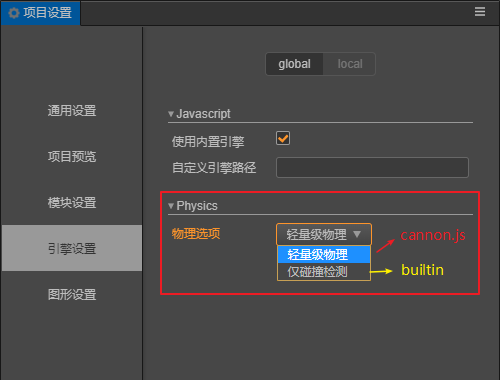
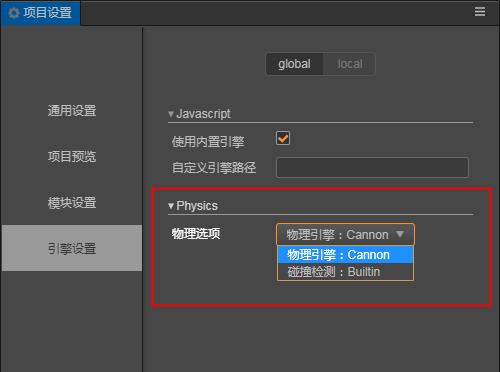
physics & particle change

diff --git a/zh/physics/physics-use/physics-group-mask.md b/zh/physics/physics-use/physics-group-mask.md
@@ -4,42 +4,44 @@
 
 ## 分组
 
-- 设置分组值，以下代码中的 group 的值十进制为 3，二进制为 011，分组可看作是 0 或 1 的
+- 设置分组值，以下代码中的 group 的值二进制为 011，分组可看作是存在于分组 0 和分组 1 中。
 
   `const group = 1 << 0 + 1 << 1;`
   `Collider.setGroup(group);`
 
-- 获取分组值，此示例中为 3。
+- 获取分组值，此示例中为 3，将 3 转为二进制为 011，可得分组为存在于分组 0 和分组 1 中。
 
-  `Collider.getGroup()`
+  `Collider.getGroup();`
 
-- 添加分组值，经过以下代码后，分组可以是 0 或 1 或 2 的。
+- 添加分组值，上述代码基础上，经过以下代码后，分组变为存在于分组 0 和分组 1 和分组 2 中。此时，分组值为 0111(二进制)，所以存在于分组 0、1、2 中。
 
   `const group = 1 << 2;`
   `Collider.addGroup(group);`
 
-- 减少分组值，经过以下代码后，分组可以是 0 或 1 的。
+- 减少分组值，上述代码基础上，经过以下代码后，分组变为存在于分组 0 和分组 1 中。此时，分组值为 0011(二进制)，所以存在于分组 0、1 中。
 
   `const group = 1 << 2;`
   `Collider.removeGroup(group);`
 
+- 上述方法接收参数均为十进制数字，为方便理解，此处用二进制解释，开发者熟悉后也可直接传入十进制数字进行分组操作。
+
 ## 掩码
 
-- 设置掩码值，以下代码中的 mask 的值十进制位为 3，二进制为 011，表示检测的分组为 0 或 1 的。
+- 设置掩码值，以下代码中的 mask 的值二进制为 011，表示检测的分组为分组 0 和分组 1 的。
 
   `const mask = 1 << 0 + 1 << 1;`
   `Collider.setMask(mask);`
 
-- 获取掩码值，此示例中为 3。
+- 获取掩码值，此示例中为 3，将 3 转为二进制为 011，可得要检测的为分组 0 和分组 1 的内容。
 
   `console.log(Collider.getMask());`
 
-- 添加掩码值，经过以下代码后，该掩码表示检测的分组为 0 或 1 或 2 的。
+- 添加掩码值，上述代码的基础上，经过以下代码后，该掩码表示检测的分组为分组 0 和分组 1 和分组 2 的。此时，掩码值为 0111(二进制)，所以检测分组 0、1、2 的内容。
 
   `const mask = 1 << 2;`
   `Collider.addMask(mask);`
 
-- 减少掩码值，经过以下代码后，该掩码表示检测的分组为 0 或 1 的。
+- 减少掩码值，上述代码的基础上，经过以下代码后，该掩码表示检测的分组为分组 0 或分组 1 的。此时，掩码值为 0011(二进制)，所以检测分组 0、1 的内容。
 
   `const mask = 1 << 2;`
   `Collider.removeMask(mask);`
@@ -58,6 +60,6 @@ TODO :
 ```
 -->
 
-## [**回到** 物理使用](./../physics-use.md)
+### [**回到** 物理使用](./../physics-use.md)
 
-## [**或者回到** 物理简介](./../physics.md)
+### [**或者回到** 物理简介](./../physics.md)

diff --git a/zh/physics/physics-item.md b/zh/physics/physics-item.md
@@ -1,6 +1,6 @@
 # 选择适合你项目的物理系统
 
-在编辑器中选择 "项目->项目设置->引擎设置" 中，您可以选择适合您项目需求的物理引擎进行开发(新项目默认为 “轻量级物理”，即 Cannon.js 物理引擎)。如下图所示：
+在编辑器中选择 "项目->项目设置->引擎设置" 中，您可以选择适合您项目需求的物理引擎进行开发(新项目默认为 Cannon.js 物理引擎)。如下图所示：
 
 ![物理引擎选项](img/PhysicsEngineOption.png)
 
@@ -24,6 +24,6 @@ Builtin 是仅有碰撞检测系统的物理模块，相对于其它的物理引
 
 [Cannon.js](https://github.com/cocos-creator/cannon.js) 是一个开源的物理引擎，它使用 js 语言开发并实现了比较全面的物理功能，如果您的项目需要更多复杂的物理功能，哪么您可以考虑使用 [Cannon.js](https://github.com/cocos-creator/cannon.js) ，再通过使用 Cocos Creator 3D 提供的 RigidBodyComponent 便可以快速上手。
 
-## [**继续下一篇**物理组件](physics-component.md)
+### [**继续下一篇**物理组件](physics-component.md)
 
-## [**或者回到**物理简介](physics.md)
+### [**或者回到**物理简介](physics.md)

diff --git a/zh/physics/physics.md b/zh/physics/physics.md
@@ -46,7 +46,7 @@ Cocos Creator 3D 目前支持轻量的碰撞检测系统 Builtin 和具有物理
 
 物理系统（PhysicsSystem）是一个模拟真实物理行为的系统，它负责对物理世界中的元素进行物理计算，比如计算各物体是否产生碰撞，以及物体的受力情况。所有元素计算完成后，还会更新到场景世界中，从而使游戏对象产生相应的物理行为。
 
-目前 Cocos Creator 3D 中物理计算所处的流程 ：  所有 Update 结束后 → 物理计算 → 开始绘画
+目前 Cocos Creator 3D 中物理计算所处的流程 ：  所有 Update 结束后 → 物理计算 → 开始渲染
 
 场景世界与物理世界，如图：
 ![场景世界与物理世界](img/SceneAndPhysics.png)
@@ -61,4 +61,4 @@ Cocos Creator 3D 的物理系统的更多内容将通过以下模块来进行更
 [**物理组件**](physics-component.md) | 介绍了一些列物理组件以及面板上的一系列属性
 [**物理使用**](physics-use.md) | 进一步介绍了物理组件的使用
 
-## [**继续下一篇**物理选项](physics-item.md)
+### [**继续下一篇**物理选项](physics-item.md)

diff --git a/zh/physics/physics-use/physics-event.md b/zh/physics/physics-use/physics-event.md
@@ -4,7 +4,7 @@ Cocos Creator 3D 的物理事件有触发事件和碰撞事件，分别由触发
 
 ## 触发器和碰撞器
 
-当碰撞时，触发器不会会产生物理行为，而碰撞器会产生物理行为，所以触发器是只进行碰撞检测的 Collider，而碰撞器是既进行碰撞检测，又进行物理模拟的 Collider。
+当碰撞时，触发器不会产生物理行为，而碰撞器会产生物理行为，所以触发器是只进行碰撞检测的 Collider，而碰撞器是既进行碰撞检测，又进行物理模拟的 Collider。
 
 两者的区别
 
@@ -66,6 +66,6 @@ private onCollision (event: ICollisionEvent) {
 - 触发事件由触发器生成，碰撞事件由碰撞器生成。
 - 触发事件可以由一个触发器和另一个触发器或者另一个碰撞器产生，而碰撞事件需要由两个碰撞器产生。
 
-## [**继续下一篇** 分组和掩码](physics-group-mask.md)
+### [**继续下一篇** 分组和掩码](physics-group-mask.md)
 
-## [**或者回到** 物理使用](./../physics-use.md)
+### [**或者回到** 物理使用](./../physics-use.md)

diff --git a/zh/particle-system/overview.md b/zh/particle-system/overview.md
@@ -23,3 +23,11 @@ Cocos Creator 3D粒子系统以模块来组织功能，包含了以下模块：
 [**ShapeModule**](emitter.md) | 用于控制粒子发射，包括发射方向与速度，支持预定义的发射方向包括方块、圆、锥体、球、半球
 [**AnimatorModule**](module.md) |  用于控制粒子发射后状态更新。已支持的功能有：大小、颜色、旋转、速度、加速度、限速、贴图动画
 [**ParticleSystemRenderer**](renderer.md) |  用于生成粒子渲染所需要的数据。包括vb、ib、渲染状态相关的控制
+
+添加一个粒子系统模块有两种方式：
+1. 像其他组件一样为节点添加粒子系统组件（不推荐）
+2. 使用编辑器添加粒子系统组件（推荐）
+   - 开发者可以通过右侧 Inspector 面板上点击“添加组件”添加粒子，如下图：
+   ![](particle-system/new_ParticleSystemComponent.png)
+   - 也可以通过左侧的层级管理器“右键->创建->特效->粒子系统”来添加一个粒子系统组件，如下图：
+   ![](particle-system/new_ParticleSystemComponent_node.png)

diff --git a/zh/particle-system/renderer.md b/zh/particle-system/renderer.md
@@ -6,7 +6,7 @@
 **属性** | **作用**
 ---|---
 **renderMode** | 设置一个粒子面片的生成方式，**billboard**粒子始终面向摄像机，**stretchedBillboard**粒子始终面向摄像机,但会根据相关参数进行拉伸，**horizontalBillboard**粒子面片始终与xz平面平行,**verticalBillboard**粒子面片始终与Y轴平行，但会朝向摄像机，**mesh**粒子为一个模型。
-**velocityScale** | 在**stretchedBillboard**模式下,对粒子在运动方向上按速度大小进行拉……
+**velocityScale** | 在**stretchedBillboard**模式下,对粒子在运动方向上按速度大小进行拉伸。
 **lengthScale** | 在**stretchedBillboard**模式下,对粒子在运动方向上按粒子大小进行拉伸。
 **mesh**|在renderMode为mesh时，指定要渲染的粒子的模型。
 **ParticleMaterial**|用于粒子渲染的材质，材质使用的effect只能是builtin-particle，不支持其它的effect。

diff --git a/zh/physics/physics-use.md b/zh/physics/physics-use.md
@@ -9,12 +9,12 @@
 [**物理事件**](physics-event.md) | 介绍了 Cocos Creator 3D 中的物理事件
 [**分组和掩码**](physics-group-mask.md) | 介绍了物理中分组和掩码的使用
 
-## [**阅读** Collider 组件](./physics-use/physics-collider.md)
+### [**阅读** Collider 组件](./physics-use/physics-collider.md)
 
-## [**阅读** Rigidbody 组件](./physics-use/physics-rigidbody.md)
+### [**阅读** Rigidbody 组件](./physics-use/physics-rigidbody.md)
 
-## [**阅读** 物理事件](./physics-use/physics-event.md)
+### [**阅读** 物理事件](./physics-use/physics-event.md)
 
-## [**阅读** 分组和掩码](./physics-use/physics-group-mask.md)
+### [**阅读** 分组和掩码](./physics-use/physics-group-mask.md)
 
-## [**或者回到** 物理简介](physics.md)
+### [**或者回到** 物理简介](physics.md)

diff --git a/zh/physics/physics-component.md b/zh/physics/physics-component.md
@@ -26,7 +26,7 @@ Cocos Creator 3D 目前为用户提供了碰撞器和刚体组件。
 
 ![球碰撞器组件](img/SphereColliderComponent.png)
 
-属性 | 解释（其它参考盒）
+属性 | 解释（其它参考盒碰撞器）
 ---|---
 **radius** | 球的半径
 
@@ -49,6 +49,6 @@ Cocos Creator 3D 目前为用户提供了碰撞器和刚体组件。
 
 **注： Builtin 中此组件暂时无效**。
 
-## [**继续下一篇**物理使用](physics-use.md)
+### [**继续下一篇**物理使用](physics-use.md)
 
-## [**或者回到**物理简介](physics.md)
+### [**或者回到**物理简介](physics.md)

diff --git a/zh/SUMMARY.md b/zh/SUMMARY.md
@@ -35,7 +35,7 @@
   - [加速度模块(ForceOvertimeModule)](particle-system/force-module.md)
   - [贴图动画模块(TextureAnimationModule)](particle-system/texture-animation-module.md)
   - [渲染模块(Renderer)](particle-system/renderer.md)
-  - [拖尾模块(TrailModule)](trail-module.md)
+  - [拖尾模块(TrailModule)](particle-system/trail-module.md)
 - [动画](engine/animation/index.md)
   - [动画组件](engine/animation/animation-component.md)
   - [动画剪辑](engine/animation/animation-clip.md)

diff --git a/zh/physics/physics-use/physics-collider.md b/zh/physics/physics-use/physics-collider.md
@@ -56,6 +56,6 @@ Collider 和 RigidBody 组件都是为了服务于物理元素，分别操控着
 - 在自身节点无 RigidBody 组件时，该属性返回为 null
 - attachedRigidbody 是一个只能获取并且只读的属性
 
-## [**继续下一篇** Rigidbody 组件](physics-rigidbody.md)
+### [**继续下一篇** Rigidbody 组件](physics-rigidbody.md)
 
-## [**或者回到** 物理使用](./../physics-use.md)
+### [**或者回到** 物理使用](./../physics-use.md)

diff --git a/zh/physics/physics-use/physics-rigidbody.md b/zh/physics/physics-use/physics-rigidbody.md
@@ -78,6 +78,6 @@ rigidBody.setAngularVelocity(new Vec3(5, 0, 0)); // 改变旋转速度
 
 **注：将因子某分量值设置为 0，可以固定某个轴向的移动或旋转，如果要完全固定旋转，请用 fixedRotation**。
 
-## [**继续下一篇** 物理事件](physics-event.md)
+### [**继续下一篇** 物理事件](physics-event.md)
 
-## [**或者回到** 物理使用](./../physics-use.md)
+### [**或者回到** 物理使用](./../physics-use.md)
